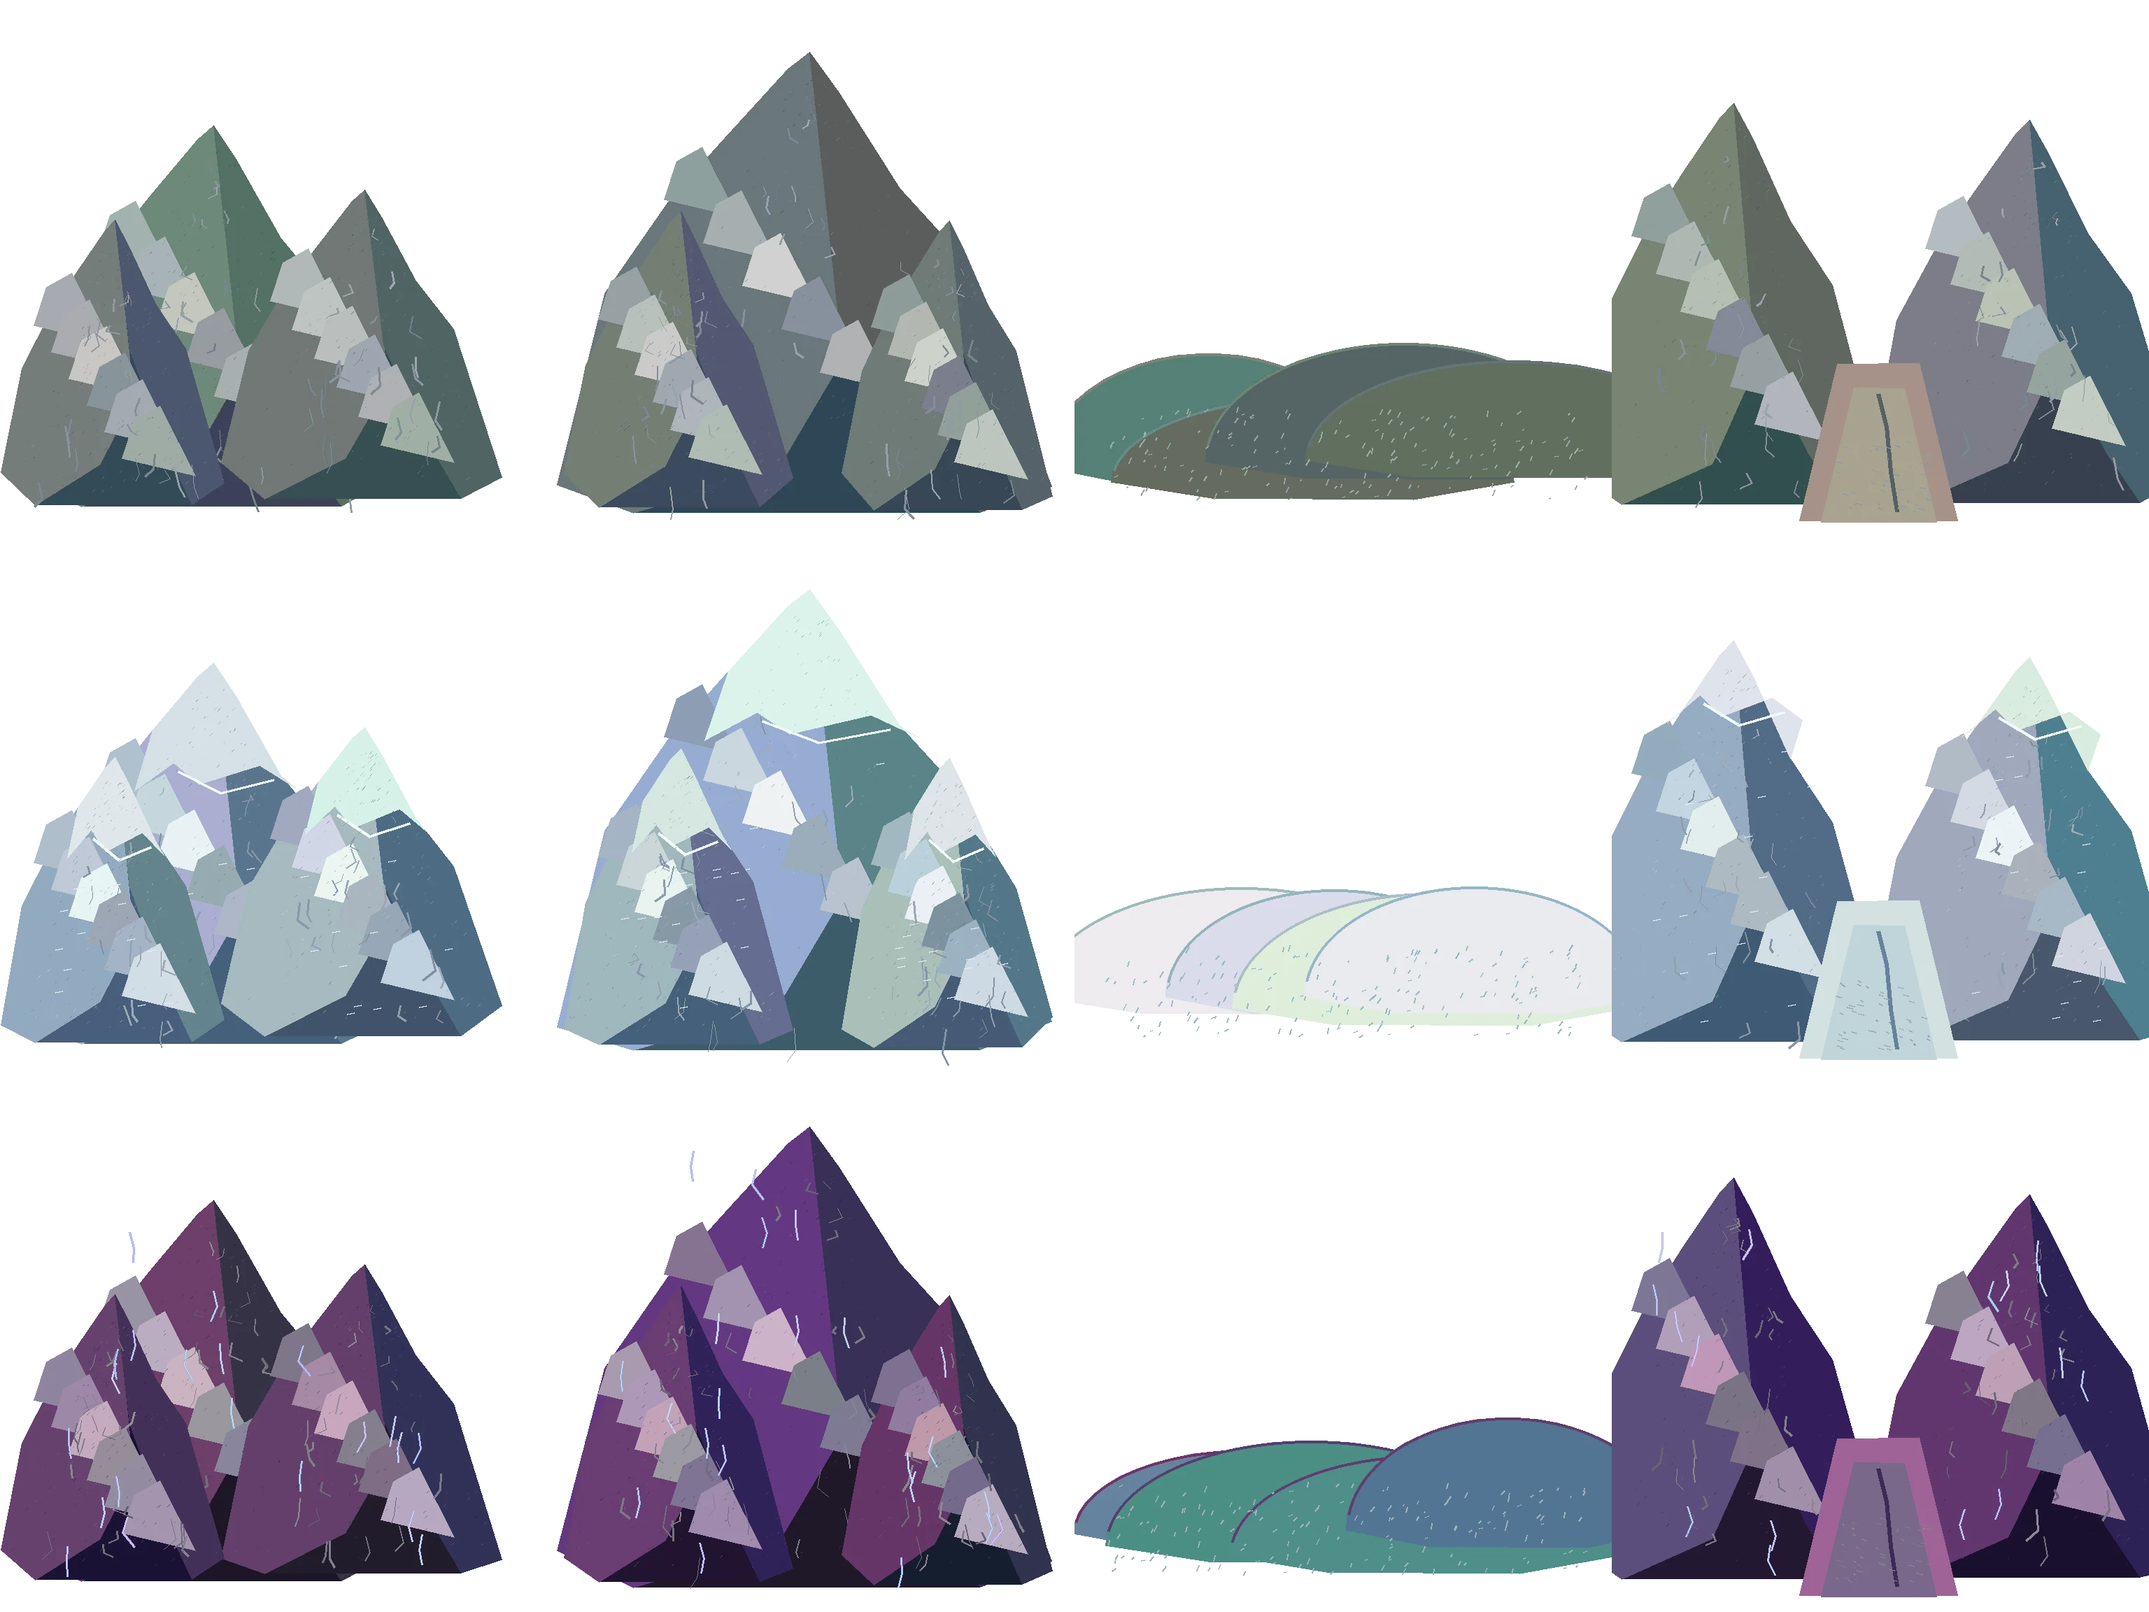
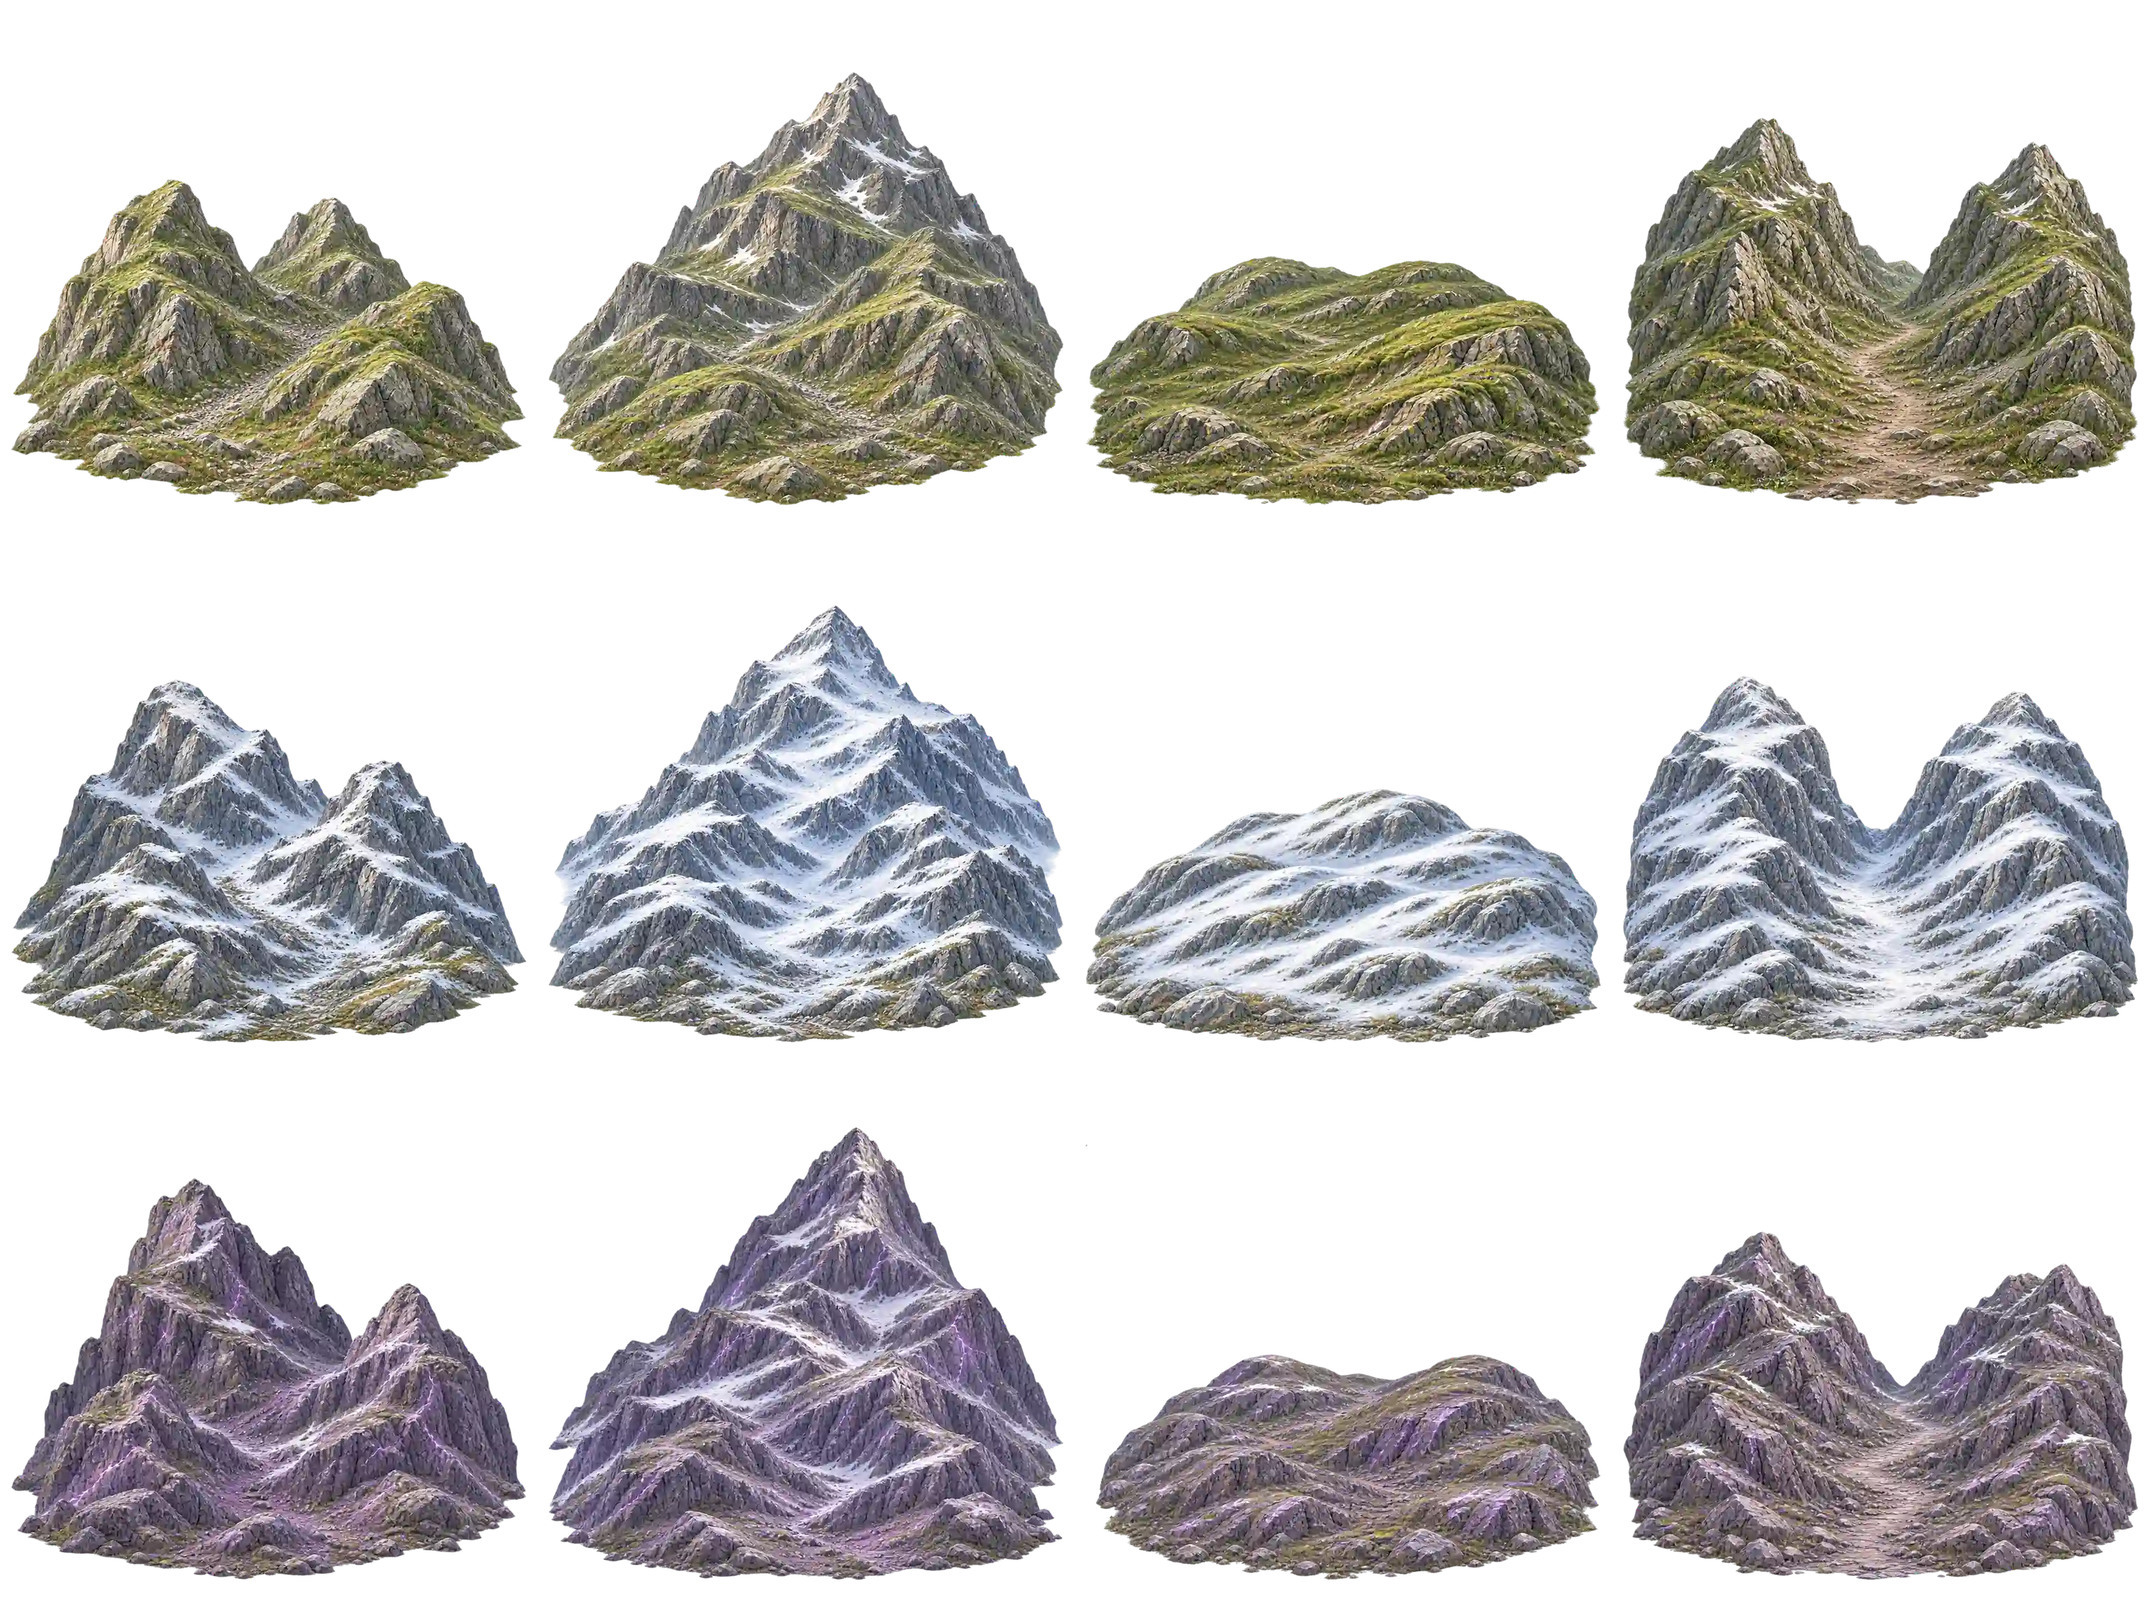
Replace polygon mountains with reviewed painted source artwork
Native art review found the old flat polygon sheet mismatched painted scenery despite green timing/Atlas gates. Preserve all gameplay/placement/loading contracts and all acceptance thresholds. Retain six original native-detail source pairs, reproducible bounded atlas packing, exact cell-isolation regressions and durable native evidence.

1,056 World/e2e unit tests across77 files, TypeScript, scoped lint/format, 222-entry Atlas discovery and independent code/art review pass. Actual gameplay-scale native checks remain REQUIRED before release.

Tested tree: 3358c767570a0ad4ef984b0f3e2dc04ec7668933
Fresh main baseline: d32cabd7f626b650df5c5eacf6a85a4457fc1f85

diff --git a/apps/web/src/components/world/map-mountain-art.test.ts b/apps/web/src/components/world/map-mountain-art.test.ts
@@ -35,4 +35,25 @@ describe('mountain atlas fidelity and loading budget', () => {
       expect(bytes.length).toBeGreaterThan(30_000)
     },
   )
+  it.each(['mountains-v01.webp', 'mountains-hd-v01.webp'])(
+    '%s keeps every complete sprite isolated from neighbouring atlas cells',
+    async (name) => {
+      const { data, info } = await sharp(await readFile(new URL(name, art)))
+        .ensureAlpha()
+        .raw()
+        .toBuffer({ resolveWithObject: true })
+      const cell = info.width / 4
+      for (let row = 0; row < 3; row++)
+        for (let column = 0; column < 4; column++) {
+          let opaque = 0
+          for (let y = 0; y < cell; y++)
+            for (let x = 0; x < cell; x++) {
+              const alpha = data[((row * cell + y) * info.width + column * cell + x) * 4 + 3]
+              if (x === 0 || y === 0 || x === cell - 1 || y === cell - 1) expect(alpha).toBe(0)
+              if (alpha > 0) opaque++
+            }
+          expect(opaque).toBeGreaterThan(0)
+        }
+    },
+  )
 })

diff --git a/docs/verification/2026-11-14-world-map-pr1040.md b/docs/verification/2026-11-14-world-map-pr1040.md
@@ -282,3 +282,21 @@ The renderer actually advances wind on presence-driven redraws even when ambient
 The two pause-mode regressions fail on the former wind integration and pass after correction, including weather receipt changes and animation resumption. The actual-route DPR 1/3 regression now separately covers seasonal and living-tree crops: the new seasonal cases fail against the previous cache predicate, then pass with exact source crop, retained canvas identity, no warmed resampling/allocation, original native density and continuing canopy sway. Existing canopy/root, terrain geometry and authority assertions remain unchanged. Independent review finds no critical or important issues. Final local validation passes 1,054 tests across all 77 World/e2e unit files, TypeScript, scoped ESLint, formatting/diff checks and actual 222-entry Atlas discovery. These results validate the local source and do not claim native browser acceptance. Publication uses the refreshed remote parent `2322f47cb316a384a1124e0019ef7e836f91c759` with an expected-head lease; the PR and hourly follow-through receipt bind the resulting candidate and tree.
 
 Verification scope: renderer weather integration and seasonal foliage reuse affect the shared World canvas. Development uses the focused regressions and all World/e2e unit files, TypeScript, changed-file lint/format and actual 222-entry Atlas discovery. No isolated authority or migration body changes are made. All configured exact-head CI/database specialists, the actual PG17 release transaction test, full Browser Smoke Chromium/final Edge, complete Living Atlas and all 63 zero-retry timing executions remain release gates. Actual native art/motion evidence must be reviewed on the corrected candidate. Physical-handset and human continuous-motion acceptance remain open for live testing. No migration, merge, deployment, promotion or cron activation has occurred.
+
+### Native success on 9fa747e; visual review holds release for mountain-source correction
+
+Fresh inspection confirms candidate `9fa747e1b0f571d2b12dbe4e2919b7618a92b610`, tree `34a7d36d72a9cd31a5ade6676e3c407f92d16f9d`, and unchanged main `d32cabd7f626b650df5c5eacf6a85a4457fc1f85`. Living Atlas records its actual checkout as synthetic merge `8ed6e0ea05f753e016e778a7dd2de9548ce92ad3` with the exact candidate tree above. Fourteen of fifteen configured workflows passed when inspected; full Browser Smoke remained in progress, so no merge or production step was taken.
+
[1 lines of base64/hex data omitted]
+
[1 lines of base64/hex data omitted]
+
[1 lines of base64/hex data omitted]
+
+**New visual finding:** mountains in `art-hamlet-atlas-49-19.png` and snowy-country captures are plainly flat polygon spikes, unlike the detailed painted surroundings. Decoding the source sheet confirms it is authored that way, not an image-readiness failure. Green native tests alone do not close that quality issue. Release is held for an in-scope original painterly source-art replacement, documented in `content/art-requests/ART-WORLD-MOUNTAINS-20261115.md`. All twelve logical cells, normal/HD dimensions, alpha, file-size caps, placement, collision and pass legality remain intact. Both new complete-cell gutter regressions fail on the original sheets, including fully opaque HD crop-boundary pixels. The replacement uses genuine native887-pixel source cells rather than enlarging the earlier362-pixel draft. Native art and all configured checks must run again on the corrected tree. Production migrations, deployment, promotion and cron remain untouched; human continuous-motion and physical-handset acceptance remain open.
+
+Replacement packaging retains all12 frames and the exact normal/HD dimensions. Six committed native1774×887 source pairs provide887-pixel cells; derivatives fit without enlargement and use baseline722/768 to match the existing0.94 foot anchor. Source-generated matte noise (for one pair,394,062 pixels at alpha252 and192,297 at251, but only364 at255) would make solid rock subtly translucent and waste the HD byte budget. The deterministic packer cleans only the near-opaque/near-transparent extremes, retains the real intermediate edge ramp and encodes runtime alpha at100. Archived source pair alpha remains untouched. It tries descending RGB qualities and records its selection rather than relaxing the existing byte cap.
+
[1 lines of base64/hex data omitted]
+
+Local validation passes1,056 tests across all77 World/e2e unit files, TypeScript, scoped ESLint/Prettier and diff checks. Both new cell-isolation cases failed on the original assets before passing on the replacement, with existing size/dimension/alpha assertions retained. No renderer, authority, placement, migration, native acceptance threshold, timing deadline/repetition, retry or project-skip change is included in this artwork repair. Publication requires refreshed main and expected parent `9fa747e1b0f571d2b12dbe4e2919b7618a92b610`. Native results on that parent are historical confirmation of the earlier repairs, not final-candidate acceptance. All configured workflows and the original guarded production runbook remain required; production is unchanged.

diff --git a/content/art-requests/ART-WORLD-MOUNTAINS-20261115.md b/content/art-requests/ART-WORLD-MOUNTAINS-20261115.md
@@ -1,0 +1,32 @@
+# Mountain source-art correction — PR1040
+
+The retained native screenshots on candidate `9fa747e1b0f571d2b12dbe4e2919b7618a92b610` show flat polygon spikes beside detailed painted trees, villages and rocks (for example `art-hamlet-atlas-49-19.png` in Living Atlas artifact14171209990). The decoded runtime mountain sheet itself contains those polygons; this is an art-source mismatch, not a missing image or failed browser decode. Native tests passed but did not establish visual acceptance. Nick's existing authorization covers correcting this in-scope quality finding before the single release.
+
+Replace only the mountain artwork. Retain four columns/three geographic rows, clustered foothills, a major spire, low hills and an open pass in each row. Keep normal1536×1152 and on-demand HD3072×2304, alpha transparency and the existing less-than500,000-byte limit per runtime file. Logical sizes, foot anchors, mountain placements, legal road/pass geometry, collisions and all renderer quality/motion limits remain unchanged.
+
+Approach: use six original AI-assisted two-cell painted source pairs, each1774×887 with native887-pixel cells. The earlier complete-sheet draft had only362-pixel cells, insufficient to supply genuine HD detail; it is not shipped. The selected pairs provide higher native detail than both output cell sizes. The existing hamlet packing approach supplies deterministic crop bounds, transparent gutters and a shared bottom baseline. Editing the procedural polygons would retain the mismatched style; hiding them would remove requested mountain scenery. Neither alternative meets the existing visual target.
+
+Built-in image generation used the earlier detailed mountain draft as a style reference only. No named artist or third-party artwork was requested. Source pairs are retained as high-quality95 WebP with full alpha in `sources/mountains/`; exact dimensions and SHA256 hashes are in the runtime manifest. The source PNGs were encoded without resizing. Normal and HD derivatives are rebuilt by:
+
+`node tools/pack-mountain-art.mjs`
+
+The packer follows the existing hamlet alpha-bounds convention (ignore alpha≤20 only when finding bounds, retain cleaned alpha within the crop), fits each sprite without enlargement into736×700 within768-square cells, and bottom-centres at y722 (the existing0.94 logical foot anchor). The normal atlas is downsampled from the actual detailed HD composition. Generated alpha is mostly251–253 even inside solid rock. The derivative snaps near-opaque alpha≥240 to255 and near-transparent alpha≤20 to0, retaining the genuine intermediate antialiased edge ramp. This removes unintended translucency/faint matte speckles and compresses redundant interior alpha without reducing source detail. Archived source pairs remain untouched; runtime WebP uses alphaQuality100. RGB encoding selects the highest of the documented quality levels that fits the unchanged500k byte cap, failing if none fits. The manifest records output dimensions, sizes and hashes. This is atlas packaging, not a new renderer or gameplay authority.
+
+## Generation prompt
+
+Common prompt: “Create a NEW high-detail production sprite pair for Aurevane, using the reference ONLY for the naturalistic painted mountain style. Wide2:1 canvas, TWO EQUAL SQUARE CELLS side by side. Each cell contains exactly ONE complete isolated ground-rooted scenery sprite, with a full transparent margin at least6% of cell width on ALL FOUR SIDES. No crossing the center divider, no clipping at canvas edges. Transparent background with genuine alpha. Camera: elevated oblique isometric RPG scenery, not flat frontal icon. Premium hand-painted naturalistic fantasy art, finely eroded rock strata, irregular weathered silhouettes, layered ridges, fine scree at foot, subtle moss/snow/minerals as specified, neutral upper-left daylight. The foot of each sprite is bottom-centered, with depth and grounded contact; no opaque ground rectangle or flat square slab. Mountains look like large natural mountains, not geometric crystal spikes. Left/right subjects independently usable as atlas cells. No labels, text, trees obscuring peaks, architecture, characters, sky, border, checkerboard or background scene. Do not copy the complete reference sheet or its4×3 layout; deliver exactly this TWO-cell2:1 pair. Render at full available native detail, intended for768-pixel production cells.”
+
+| Source pair         | Material                                                 | Left / right subjects                                     |
+| ------------------- | -------------------------------------------------------- | --------------------------------------------------------- |
+| highland-peaks      | moss-green/grey highland rock                            | clustered crags / monumental layered main peak            |
+| highland-hills-pass | moss-green/grey highland rock                            | low rounded hills / two shoulders with an open earth pass |
+| alpine-peaks        | blue-grey alpine stone, natural snowcaps and pockets     | clustered crags / monumental layered main peak            |
+| alpine-hills-pass   | blue-grey alpine stone, natural snowcaps and pockets     | low rounded hills / two shoulders with an open snow pass  |
+| void-peaks          | violet-grey riftstone, restrained lavender mineral veins | clustered crags / monumental layered main peak            |
+| void-hills-pass     | violet-grey riftstone, restrained lavender mineral veins | low rounded hills / two shoulders with an open stone pass |
+
+## Acceptance
+
+Both new atlas-isolation regressions fail on the former sheets: alpha reaches crop boundaries, including fully opaque HD pixels. They require every outer cell edge to remain fully transparent and every cell to contain artwork. Existing dimensions, styles, alpha, minimum/maximum byte-size checks remain intact. These assertions guard crop integrity; they do not automate aesthetic judgement.
+
+The six sources and packed derivatives must be inspected for natural texture, geographic variety, pass openness and HD detail. Fresh exact-head hosted checks, real native image readiness, World art at gameplay scale, all63 zero-retry timing cases, full Browser Smoke Chromium/final Edge, Living Atlas/PG17 and every configured gate remain mandatory. Human continuous-motion and physical-handset acceptance stay open for live testing. No production change is authorized around a pending or red gate.
